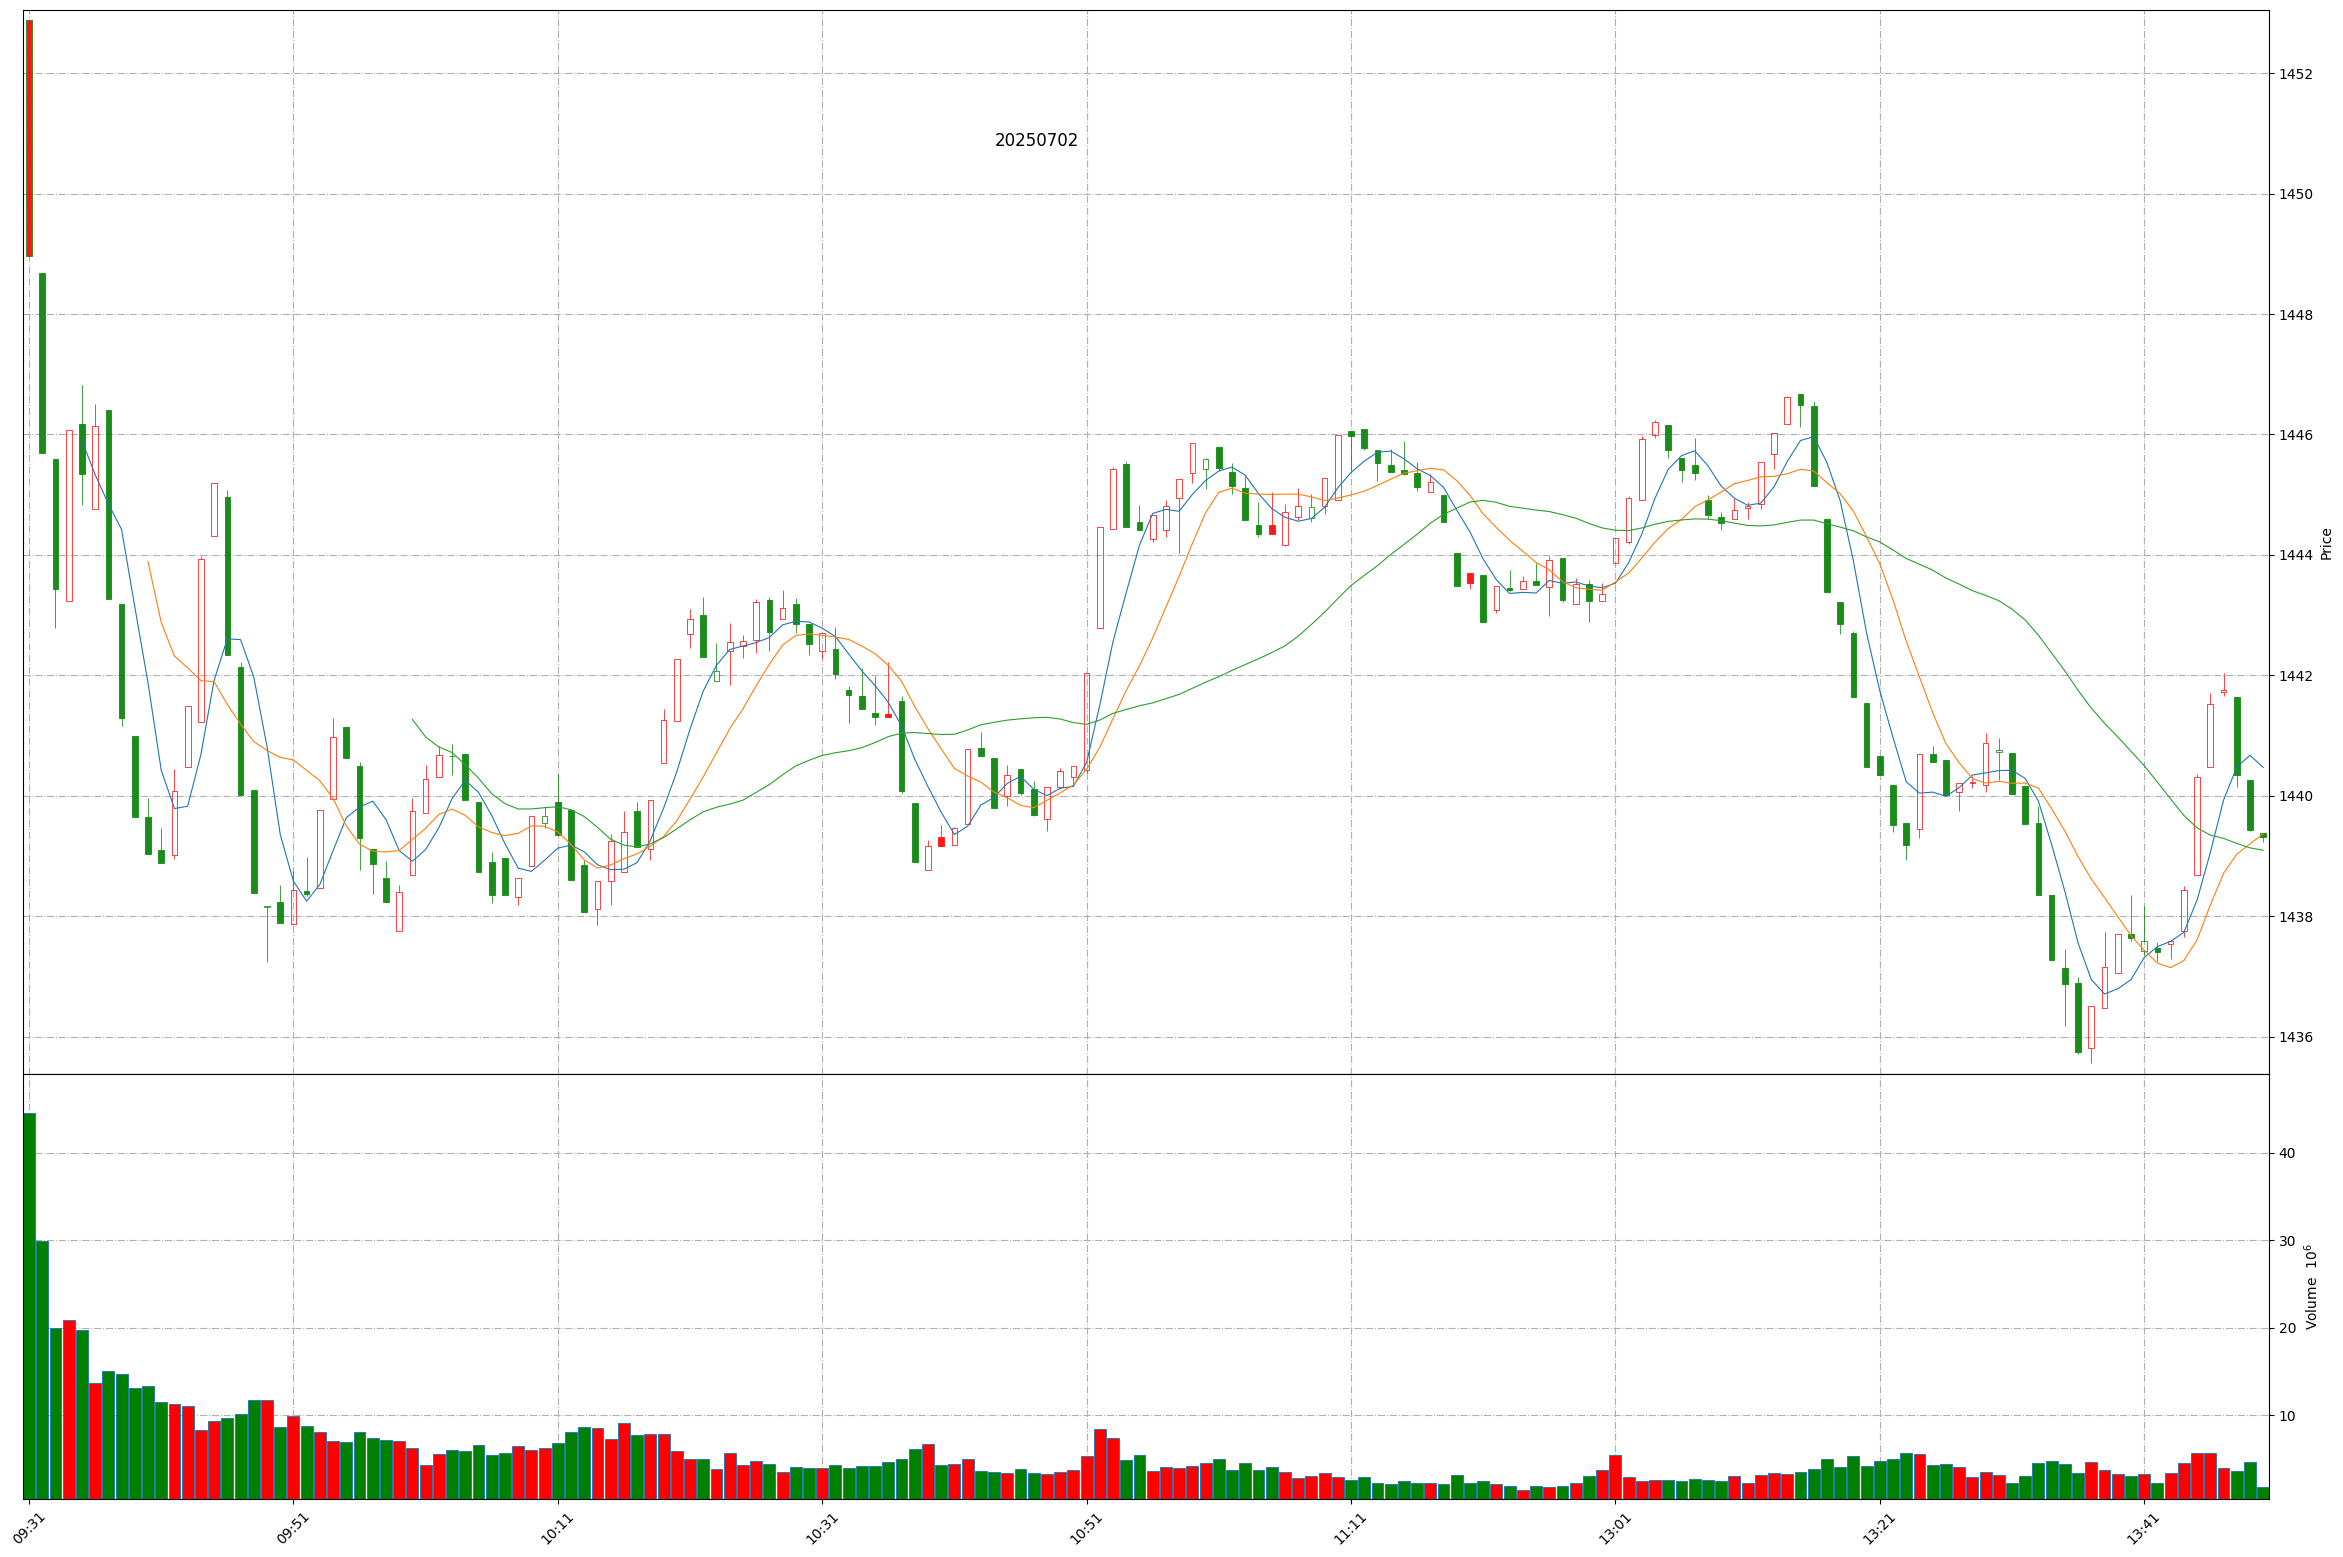
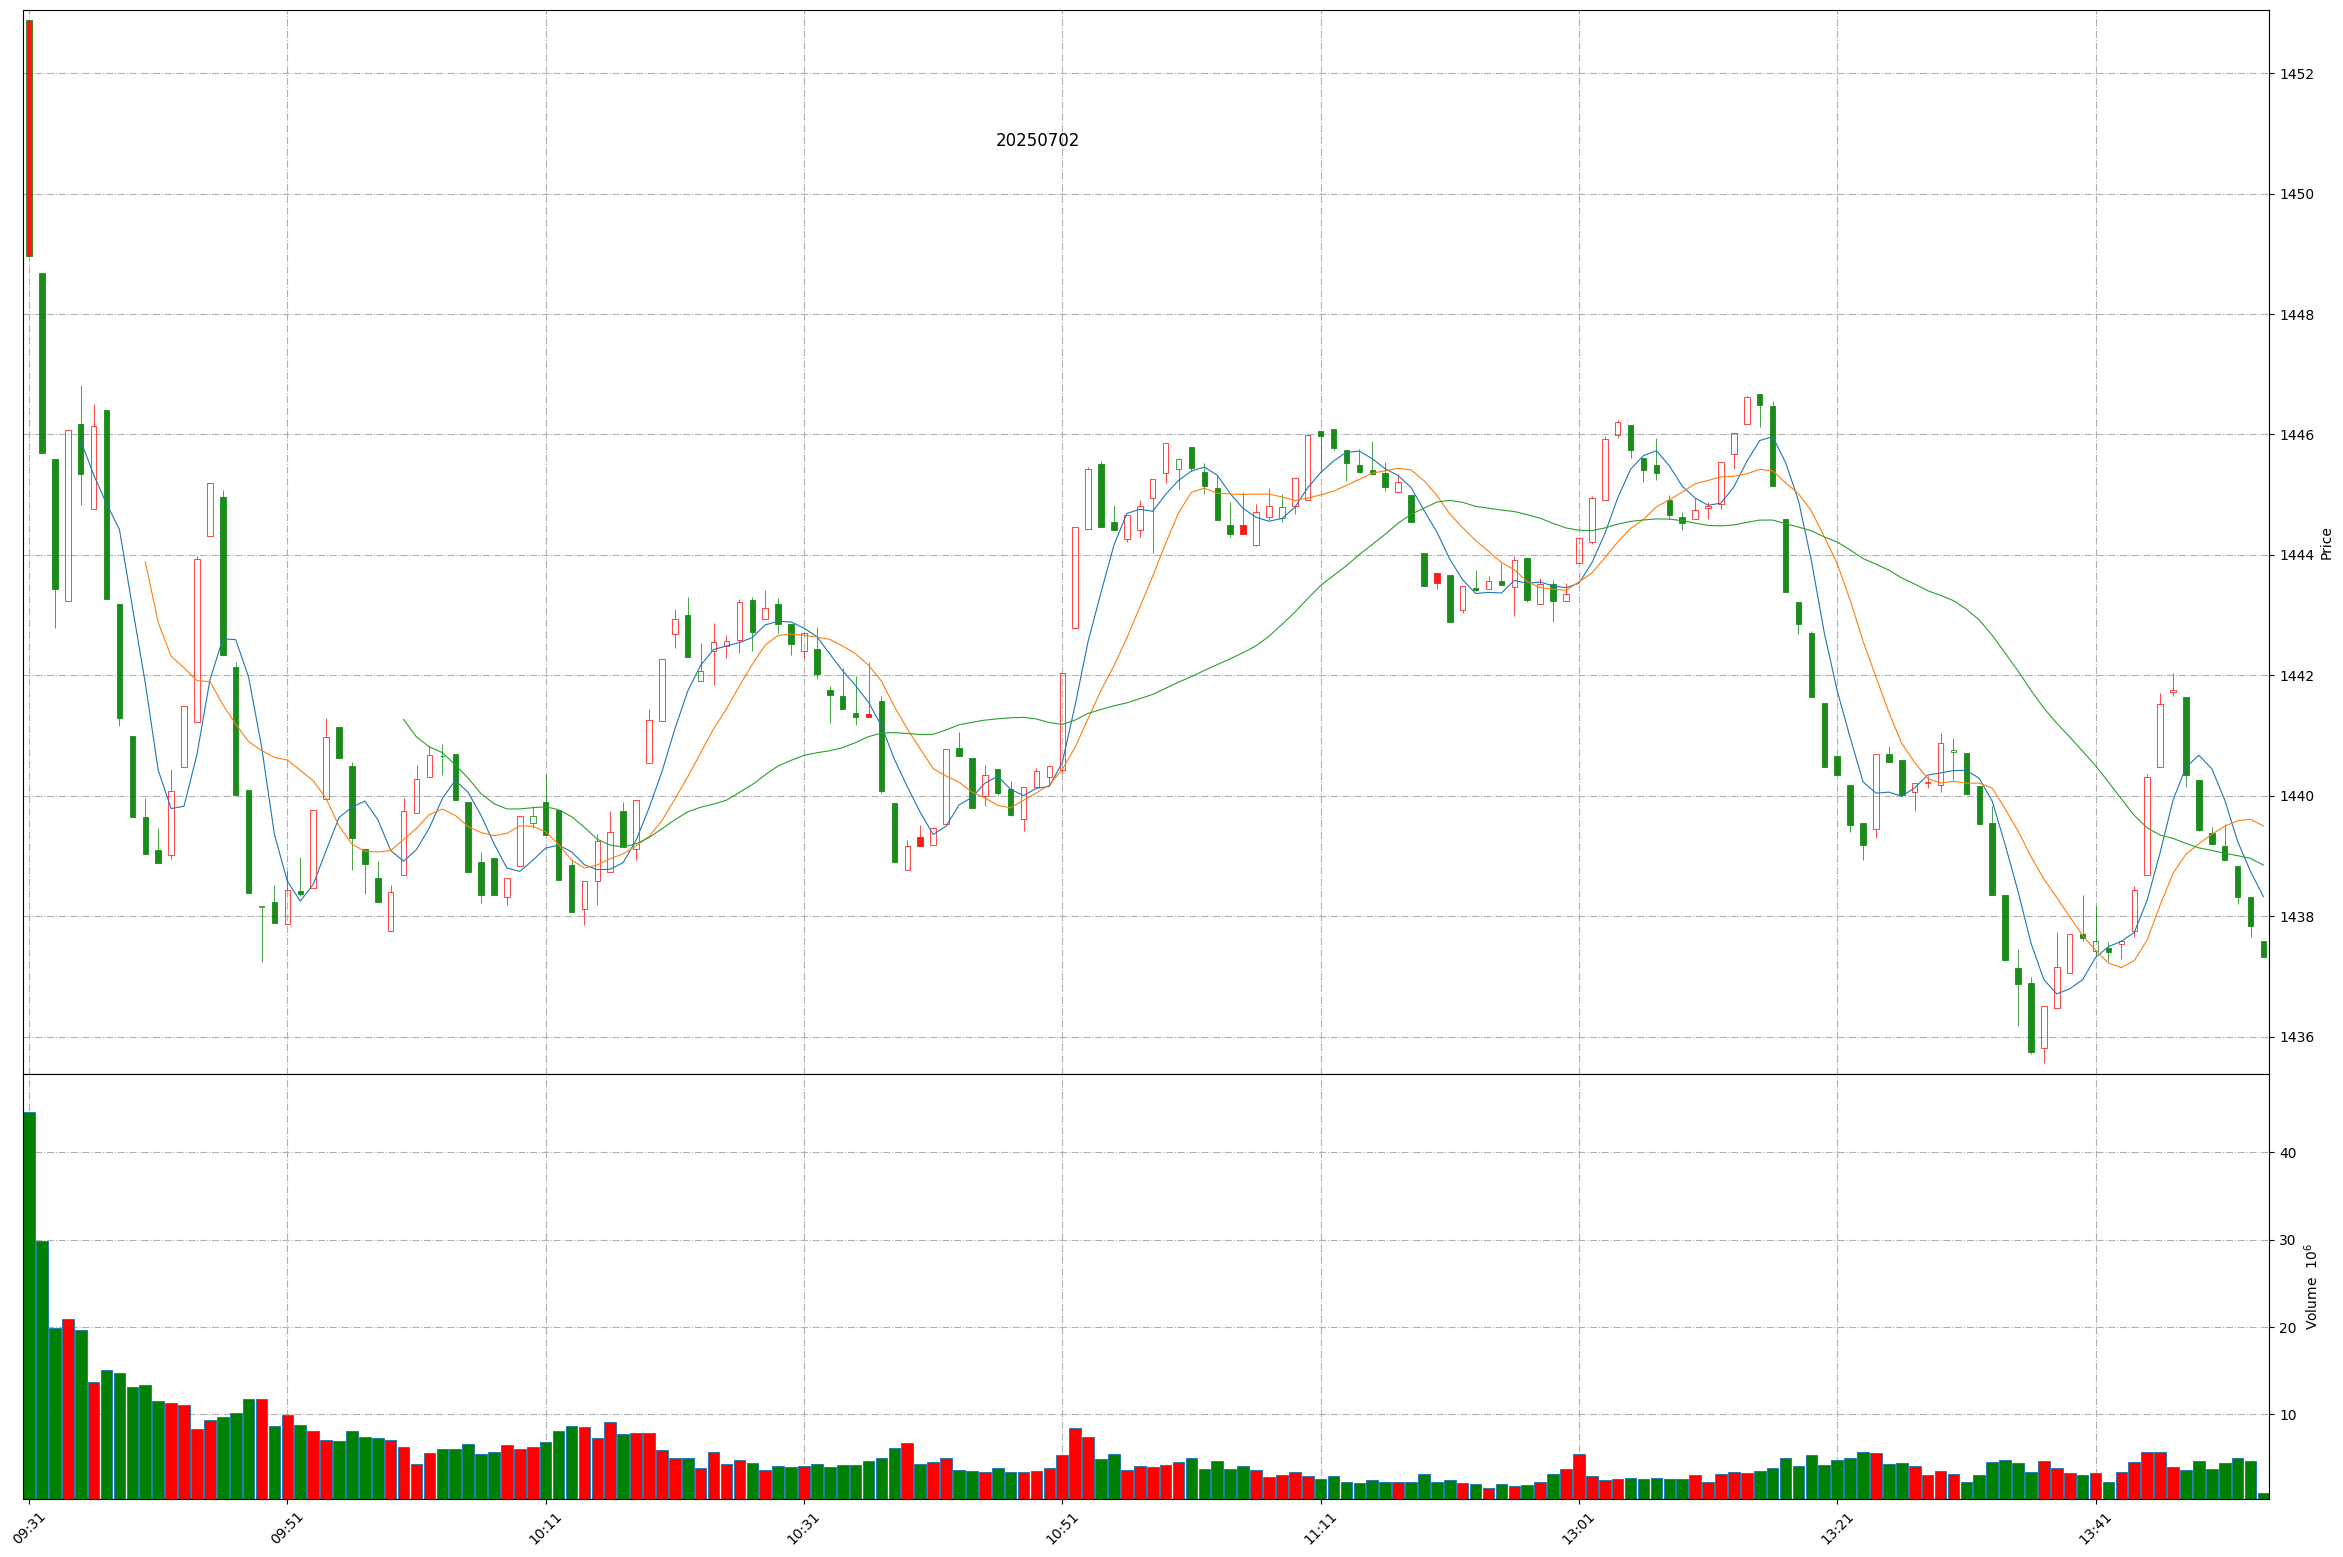
Github action update at 2025-07-02 13:53:19.

diff --git a/README.md b/README.md
@@ -1,11 +1,11 @@
 
 # Daily-A-share-market-quotes 每日 A 股指数（5min 更新）- 20250702
 
-### 上证指数 20250702 13:49
+### 上证指数 20250702 13:53
 ![](./fig/2025/7/20250702-sh000001.png)
 
-### 深证成指 20250702 13:49
+### 深证成指 20250702 13:53
 ![](./fig/2025/7/20250702-sz399001.png)
 
-### 北证50 20250702 13:49
+### 北证50 20250702 13:53
 ![](./fig/2025/7/20250702-bj899050.png)
